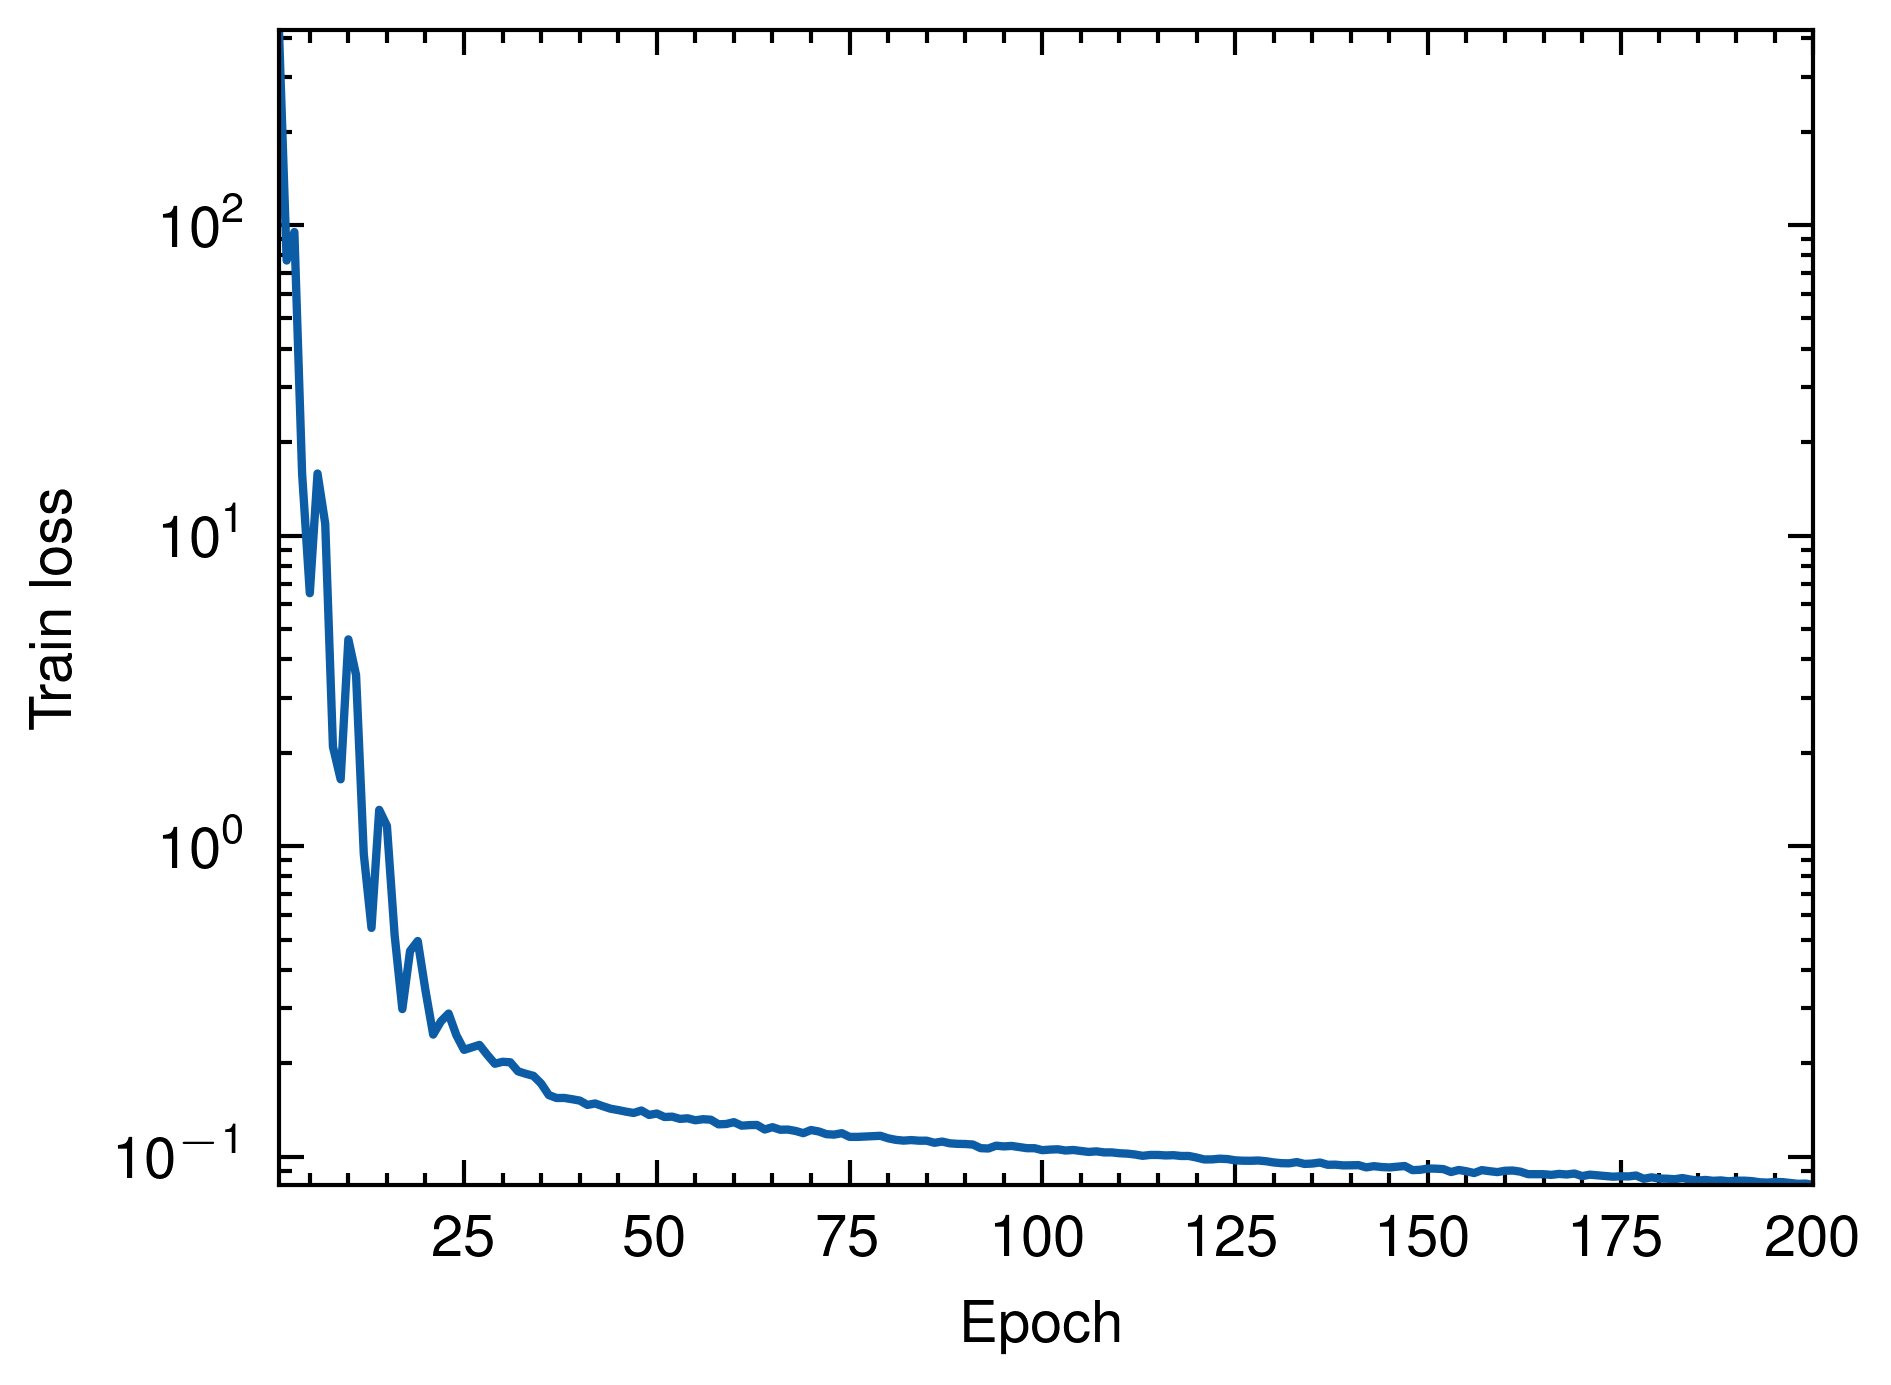
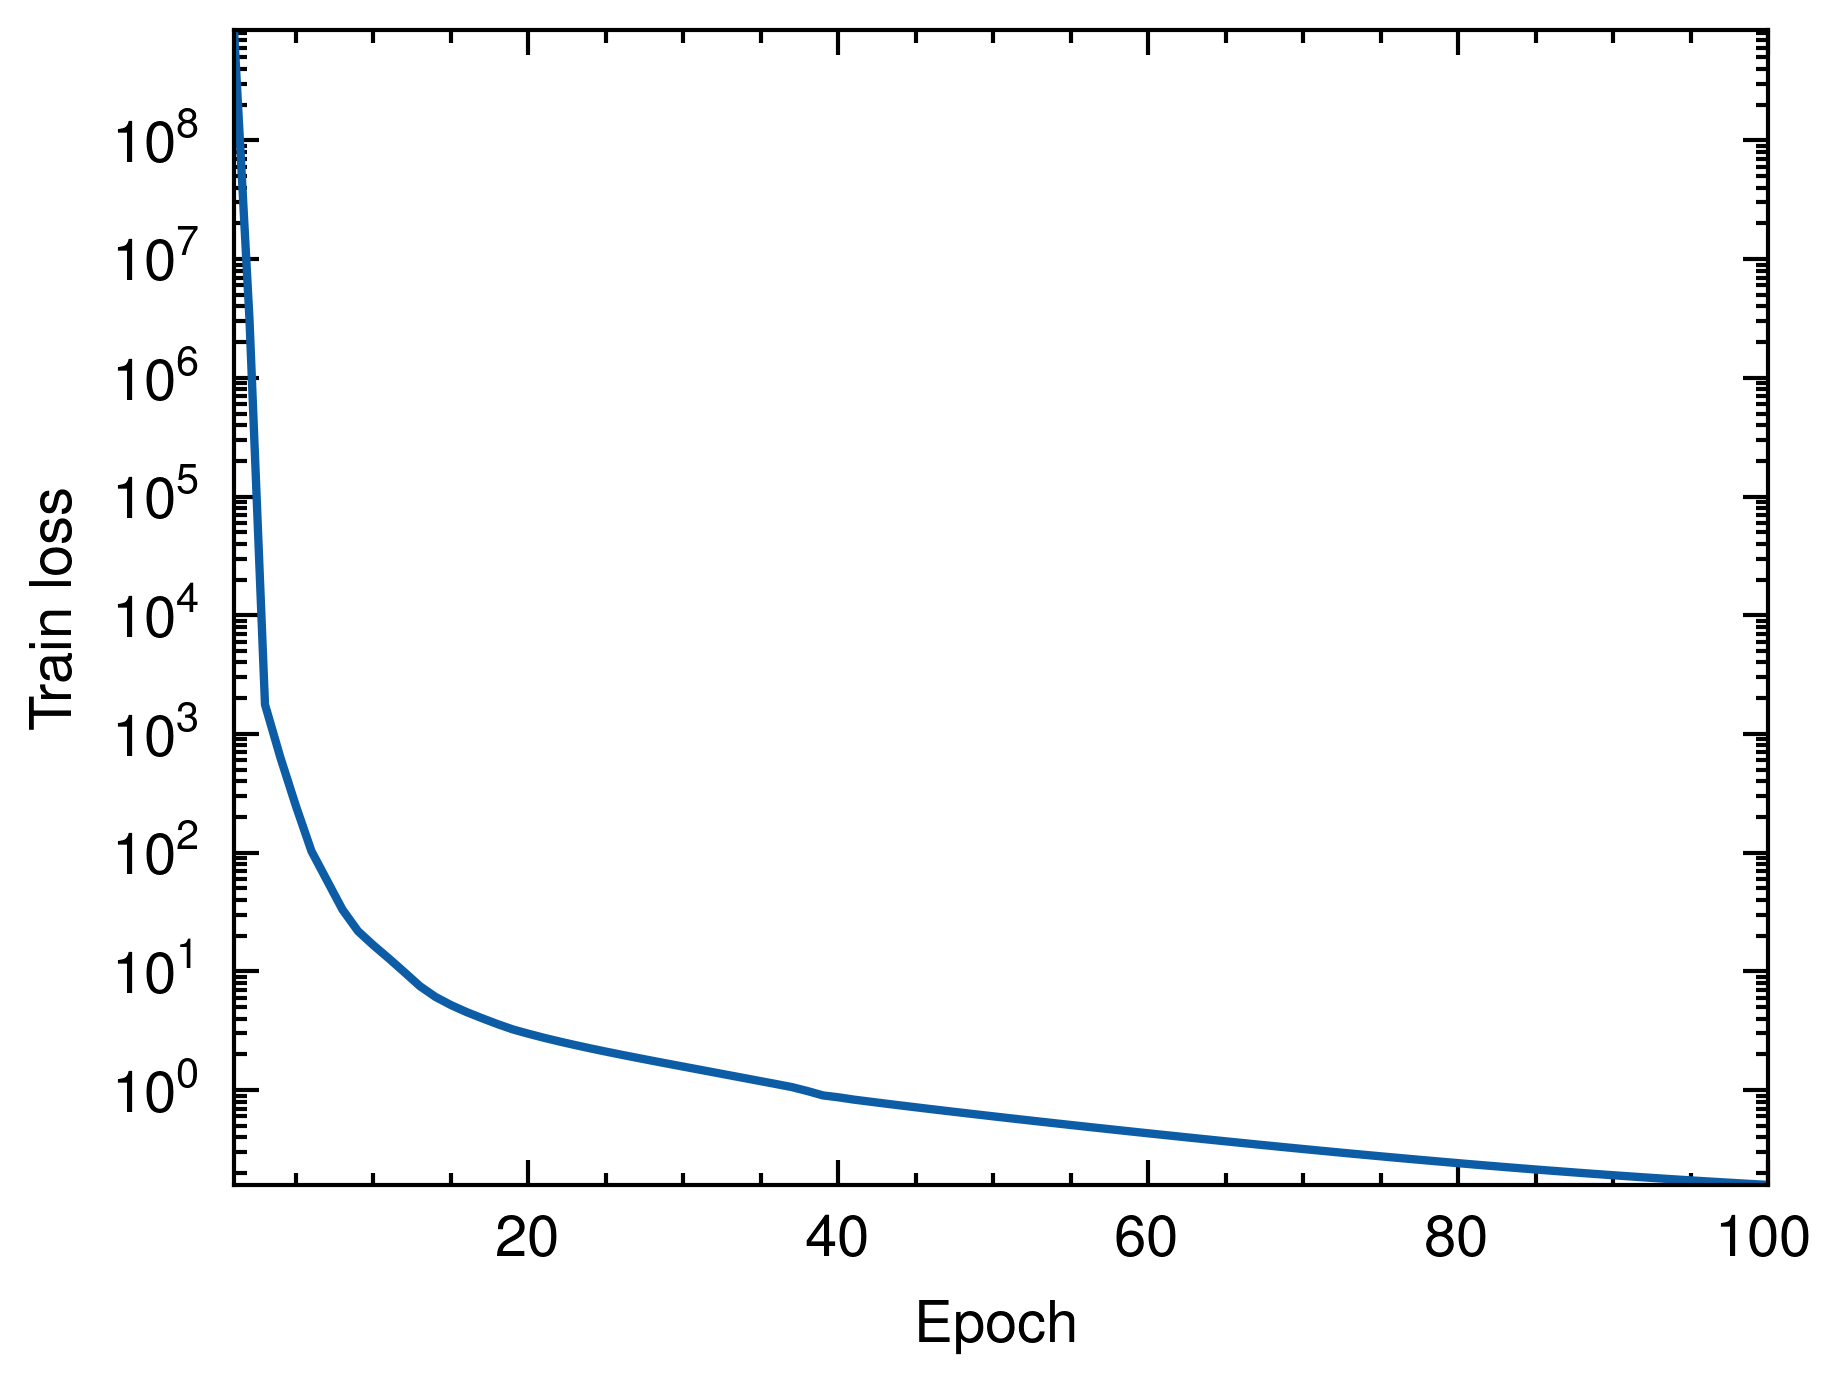
Learn complete but

diff --git a/src/main.rs b/src/main.rs
@@ -14,8 +14,8 @@ fn main() -> Result<()> {
 
     let mut rng = smallrng_from_seed(42);
 
-    let n_train = 1000usize;
-    let n_val = 200usize;
+    let n_train = 10000usize;
+    let n_val = 2000usize;
 
     let ds = Dataset::generate(n_train, n_val, &dev)?;
 
@@ -94,6 +94,69 @@ fn main() -> Result<()> {
         .set_path("val_loss.png")
         .savefig()?;
 
+    let ds_test = Dataset::generate(1, 1, &dev)?;
+    let (test_u, test_y, test_Gu) = ds_test.train_set(&dev)?;
+    let Gu_hat = model.forward(&test_u, &test_y)?;
+
+    let test_u: Vec<f32> = test_u.detach().reshape(100).unwrap().to_vec1()?;
+    let test_u = test_u.into_iter().map(|x| x as f64).collect::<Vec<f64>>();
+
+
+    let test_Gu: Vec<f32> = test_Gu
+        .iter()
+        .map(|Gu| {
+            let Gu = Gu.detach().reshape(1).unwrap().to_vec1().unwrap();
+            Gu[0]
+        })
+        .collect();
+    let test_Gu = test_Gu.into_iter().map(|x| x as f64).collect::<Vec<f64>>();
+
+    let test_y: Vec<f32> = test_y
+        .iter()
+        .map(|y| {
+            let y = y.detach().reshape(1).unwrap().to_vec1().unwrap();
+            y[0]
+        })
+        .collect();
+    let test_y = test_y.into_iter().map(|x| x as f64).collect::<Vec<f64>>();
+
+    let Gu_hat: Vec<f32> = Gu_hat
+        .iter()
+        .map(|Gu_hat| {
+            let Gu_hat = Gu_hat.detach().reshape(1).unwrap().to_vec1().unwrap();
+            Gu_hat[0]
+        })
+        .collect();
+    let Gu_hat = Gu_hat.into_iter().map(|x| x as f64).collect::<Vec<f64>>();
+
+    let x_train = linspace(0, 1, 100);
+
+    let mut plt = Plot2D::new();
+    plt
+        .set_domain(x_train)
+        .insert_image(test_u)
+        .set_xlabel(r"$x$")
+        .set_ylabel(r"$V(x)$")
+        .set_style(PlotStyle::Nature)
+        .tight_layout()
+        .set_dpi(600)
+        .set_path("potential_test.png")
+        .savefig()?;
+
+    let mut plt = Plot2D::new();
+    plt
+        .set_domain(test_y)
+        .insert_image(test_Gu)
+        .insert_image(Gu_hat)
+        .set_xlabel(r"$t$")
+        .set_ylabel(r"$x(t)$")
+        .set_line_style(vec![(0, LineStyle::Solid), (1, LineStyle::Dashed)])
+        .set_style(PlotStyle::Nature)
+        .tight_layout()
+        .set_dpi(600)
+        .set_path("x_test.png")
+        .savefig()?;
+
     Ok(())
 }
 
@@ -114,11 +177,13 @@ pub fn train(ds: Dataset, dev: &Device, rng: &mut SmallRng) -> Result<(DeepONet,
         y_sensors: 100,
         p: 10,
         hidden_size: 40,
-        hidden_depth: 3,
-        learning_rate: 1e-3,
-        batch_size: 256,
-        epoch: 200
+        hidden_depth: 5,
+        learning_rate: 1e-2,
+        batch_size: 1000,
+        epoch: 500
     };
+
+    let mut lr = hparam.learning_rate;
 
     let varmap = VarMap::new();
     let vb = VarBuilder::from_varmap(&varmap, DType::F32, dev);
@@ -186,6 +251,7 @@ pub fn train(ds: Dataset, dev: &Device, rng: &mut SmallRng) -> Result<(DeepONet,
 
         train_history[epoch] = train_loss as f64;
         val_history[epoch] = val_loss as f64;
+        adam.set_learning_rate(lr);
     }
 
     println!("train_loss: {:.4e}, val_loss: {:.4e}", train_loss, val_loss);
